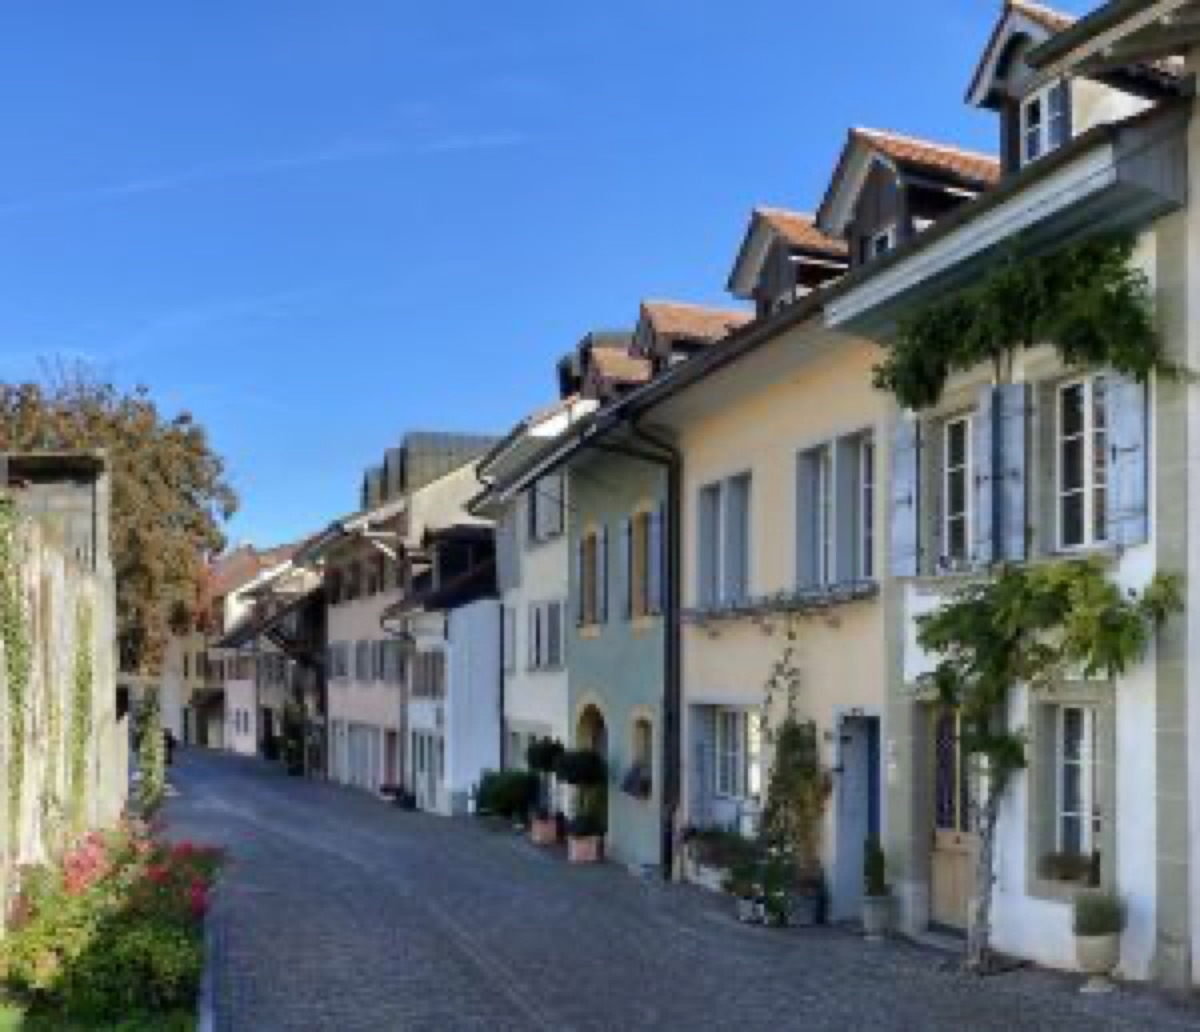
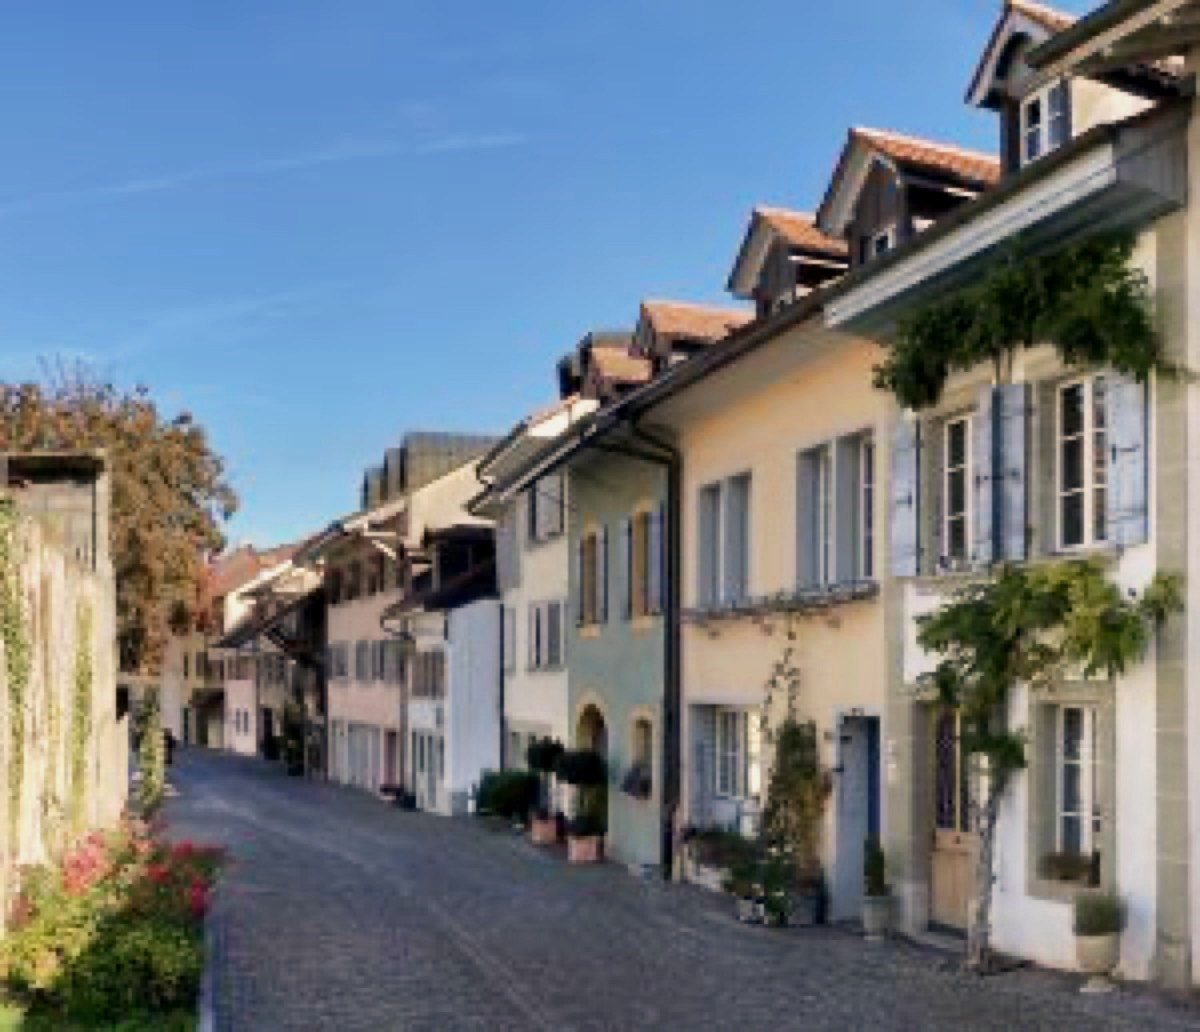
Passe design: photos stations harmonisees, carte agrandie et epuree, FAQ FR/EN/DE
- Traitement uniforme des 8 photos de stations (exposition et temperature harmonisees, ciels recuperes)
- Carte du parcours: hauteur augmentee (desktop et mobile), labels de rues reduits, fond attenue pour que les marqueurs et le trace ressortent
- Nouvelle section FAQ en accordeon (FR/EN/DE), reponses provisoires marquees "A valider par Bjorn"

diff --git a/index.html b/index.html
@@ -418,6 +418,58 @@
       </div>
     </section>
 
+    <!-- ── FAQ ─────────────────────────────────────────────────── -->
+    <section id="faq">
+      <div class="section-inner">
+        <div class="stele reveal">
+          <div class="stele-rule"><span class="stele-diamond">◆</span></div>
+          <h2 data-i18n="faq-h2">Questions fréquentes</h2>
+          <div class="stele-rule"><span class="stele-diamond">◆</span></div>
+          <p class="stele-sub" data-i18n="faq-sub">Tout ce qu'il faut savoir avant de partir</p>
+        </div>
+
+        <div class="faq-list reveal">
+
+          <details class="faq-item">
+            <summary><span class="faq-q" data-i18n="faq-q1">Que se passe-t-il s'il pleut ?</span></summary>
+            <!-- À valider par Bjorn -->
+            <div class="faq-a"><p data-i18n="faq-a1">Le jeu se pratique en extérieur. Sous une pluie légère il reste jouable, prévoyez une tenue adaptée. En cas d'orage, mieux vaut reporter : votre code est valable 6 mois, vous pouvez revenir un autre jour.</p></div>
+          </details>
+
+          <details class="faq-item">
+            <summary><span class="faq-q" data-i18n="faq-q2">Le parcours est-il accessible en poussette ou en fauteuil roulant ?</span></summary>
+            <!-- À valider par Bjorn -->
+            <div class="faq-a"><p data-i18n-html="faq-a2">Le parcours traverse la vieille ville et le site romain d'Avenches, en partie sur des chemins pavés ou en herbe. La plus grande partie se fait en poussette. Pour un fauteuil roulant, certains passages peuvent être délicats : écrivez-nous à <a href="mailto:info@aventicumquest.ch">info@aventicumquest.ch</a> et nous vous renseignons.</p></div>
+          </details>
+
+          <details class="faq-item">
+            <summary><span class="faq-q" data-i18n="faq-q3">Faut-il bien comprendre le français pour jouer ?</span></summary>
+            <!-- À valider par Bjorn -->
+            <div class="faq-a"><p data-i18n="faq-a3">Non. Le jeu est entièrement disponible en français, en anglais et en allemand. Vous choisissez votre langue au lancement de la partie.</p></div>
+          </details>
+
+          <details class="faq-item">
+            <summary><span class="faq-q" data-i18n="faq-q4">Que se passe-t-il si on n'a pas fini en 120 minutes ?</span></summary>
+            <!-- À valider par Bjorn -->
+            <div class="faq-a"><p data-i18n="faq-a4">Les 120 minutes sont une estimation, pas un compte à rebours qui vous arrête. Vous avancez à votre rythme et terminez l'enquête quand vous le souhaitez.</p></div>
+          </details>
+
+          <details class="faq-item">
+            <summary><span class="faq-q" data-i18n="faq-q5">Peut-on jouer à plusieurs équipes en même temps ?</span></summary>
+            <!-- À valider par Bjorn -->
+            <div class="faq-a"><p data-i18n="faq-a5">Oui. Chaque équipe achète son propre code et joue de son côté. C'est idéal pour une sortie de groupe ou une petite compétition amicale entre équipes.</p></div>
+          </details>
+
+          <details class="faq-item">
+            <summary><span class="faq-q" data-i18n="faq-q6">Le code d'accès a-t-il une date d'expiration ?</span></summary>
+            <!-- À valider par Bjorn -->
+            <div class="faq-a"><p data-i18n="faq-a6">Votre code est valable 6 mois à partir de l'achat. Pendant cette période, vous partez quand vous voulez.</p></div>
+          </details>
+
+        </div>
+      </div>
+    </section>
+
     <!-- ── Tarifs ──────────────────────────────────────────────── -->
     <section id="tarifs">
       <div class="section-inner">
@@ -585,6 +637,20 @@
         'tarif-note':       'Un seul code par équipe, taille illimitée.<br>Valable 6 mois à partir de l\'achat.',
         'tarifs-cta':       'Acheter maintenant →',
         'tarifs-secure':    '🔒 Paiement sécurisé · Reçu par e-mail',
+        'faq-h2':           'Questions fréquentes',
+        'faq-sub':          'Tout ce qu\'il faut savoir avant de partir',
+        'faq-q1':           'Que se passe-t-il s\'il pleut ?',
+        'faq-a1':           'Le jeu se pratique en extérieur. Sous une pluie légère il reste jouable, prévoyez une tenue adaptée. En cas d\'orage, mieux vaut reporter : votre code est valable 6 mois, vous pouvez revenir un autre jour.',
+        'faq-q2':           'Le parcours est-il accessible en poussette ou en fauteuil roulant ?',
+        'faq-a2':           'Le parcours traverse la vieille ville et le site romain d\'Avenches, en partie sur des chemins pavés ou en herbe. La plus grande partie se fait en poussette. Pour un fauteuil roulant, certains passages peuvent être délicats : écrivez-nous à <a href="mailto:info@aventicumquest.ch">info@aventicumquest.ch</a> et nous vous renseignons.',
+        'faq-q3':           'Faut-il bien comprendre le français pour jouer ?',
+        'faq-a3':           'Non. Le jeu est entièrement disponible en français, en anglais et en allemand. Vous choisissez votre langue au lancement de la partie.',
+        'faq-q4':           'Que se passe-t-il si on n\'a pas fini en 120 minutes ?',
+        'faq-a4':           'Les 120 minutes sont une estimation, pas un compte à rebours qui vous arrête. Vous avancez à votre rythme et terminez l\'enquête quand vous le souhaitez.',
+        'faq-q5':           'Peut-on jouer à plusieurs équipes en même temps ?',
+        'faq-a5':           'Oui. Chaque équipe achète son propre code et joue de son côté. C\'est idéal pour une sortie de groupe ou une petite compétition amicale entre équipes.',
+        'faq-q6':           'Le code d\'accès a-t-il une date d\'expiration ?',
+        'faq-a6':           'Votre code est valable 6 mois à partir de l\'achat. Pendant cette période, vous partez quand vous voulez.',
         'foot-ml':          'Mentions légales',
         'foot-cgv':         'Conditions générales',
         'foot-conf':        'Confidentialité',
@@ -679,6 +745,20 @@
         'tarif-note':       'One code per team, unlimited size.<br>Valid 6 months from purchase.',
         'tarifs-cta':       'Buy now →',
         'tarifs-secure':    '🔒 Secure payment · Receipt by email',
+        'faq-h2':           'Frequently asked questions',
+        'faq-sub':          'Everything to know before you set off',
+        'faq-q1':           'What happens if it rains?',
+        'faq-a1':           'The game is played outdoors. In light rain it stays playable, just bring suitable clothing. In a thunderstorm it is better to postpone: your code is valid for 6 months, so you can come back another day.',
+        'faq-q2':           'Is the route accessible with a stroller or wheelchair?',
+        'faq-a2':           'The route runs through the old town and the Roman site of Avenches, partly on cobbled or grassy paths. Most of it is doable with a stroller. For a wheelchair, some sections may be tricky: write to us at <a href="mailto:info@aventicumquest.ch">info@aventicumquest.ch</a> and we will advise you.',
+        'faq-q3':           'Do you need to understand French to play?',
+        'faq-a3':           'No. The game is fully available in French, English and German. You choose your language when you start.',
+        'faq-q4':           'What happens if we do not finish within 120 minutes?',
+        'faq-a4':           'The 120 minutes are an estimate, not a countdown that stops you. You go at your own pace and finish the investigation whenever you like.',
+        'faq-q5':           'Can several teams play at the same time?',
+        'faq-a5':           'Yes. Each team buys its own code and plays separately. It is ideal for a group outing or a friendly contest between teams.',
+        'faq-q6':           'Does the access code have an expiry date?',
+        'faq-a6':           'Your code is valid for 6 months from purchase. Within that period, you set off whenever you want.',
         'foot-ml':          'Legal notice',
         'foot-cgv':         'Terms & Conditions',
         'foot-conf':        'Privacy',
@@ -773,6 +853,20 @@
         'tarif-note':       'Ein Code pro Team, unbegrenzte Größe.<br>6 Monate ab Kauf gültig.',
         'tarifs-cta':       'Jetzt kaufen →',
         'tarifs-secure':    '🔒 Sichere Zahlung · Quittung per E-Mail',
+        'faq-h2':           'Häufige Fragen',
+        'faq-sub':          'Alles Wichtige, bevor ihr aufbrecht',
+        'faq-q1':           'Was passiert, wenn es regnet?',
+        'faq-a1':           'Das Spiel wird im Freien gespielt. Bei leichtem Regen bleibt es spielbar, nehmt einfach passende Kleidung mit. Bei Gewitter verschiebt ihr es besser: Euer Code ist 6 Monate gültig, ihr könnt an einem anderen Tag wiederkommen.',
+        'faq-q2':           'Ist die Strecke mit Kinderwagen oder Rollstuhl zugänglich?',
+        'faq-a2':           'Die Strecke führt durch die Altstadt und über das römische Gelände von Avenches, teils auf gepflasterten oder grasbewachsenen Wegen. Der grösste Teil ist mit Kinderwagen machbar. Für den Rollstuhl können einige Abschnitte heikel sein: Schreibt uns an <a href="mailto:info@aventicumquest.ch">info@aventicumquest.ch</a>, wir beraten euch.',
+        'faq-q3':           'Muss man gut Französisch verstehen, um zu spielen?',
+        'faq-a3':           'Nein. Das Spiel ist vollständig auf Französisch, Englisch und Deutsch verfügbar. Ihr wählt eure Sprache zu Beginn.',
+        'faq-q4':           'Was passiert, wenn wir in 120 Minuten nicht fertig werden?',
+        'faq-a4':           'Die 120 Minuten sind eine Schätzung, kein Countdown, der euch stoppt. Ihr geht in eurem Tempo und beendet die Ermittlung, wann ihr möchtet.',
+        'faq-q5':           'Können mehrere Teams gleichzeitig spielen?',
+        'faq-a5':           'Ja. Jedes Team kauft seinen eigenen Code und spielt für sich. Ideal für einen Gruppenausflug oder einen kleinen freundschaftlichen Wettkampf zwischen Teams.',
+        'faq-q6':           'Hat der Zugangscode ein Ablaufdatum?',
+        'faq-a6':           'Euer Code ist 6 Monate ab Kauf gültig. In diesem Zeitraum brecht ihr auf, wann ihr wollt.',
         'foot-ml':          'Impressum',
         'foot-cgv':         'AGB',
         'foot-conf':        'Datenschutz',
@@ -927,12 +1021,10 @@
       }
 
       const map = L.map(el, { scrollWheelZoom: false, maxZoom: 16 });
-      // Esri dark-gray basemap (free, no API key) + label overlay
+      // Esri dark-gray basemap (free, no API key). No street-label layer:
+      // the numbered markers and the route stay the most legible elements.
       L.tileLayer('https://server.arcgisonline.com/ArcGIS/rest/services/Canvas/World_Dark_Gray_Base/MapServer/tile/{z}/{y}/{x}', {
         attribution: 'Tiles &copy; <a href="https://www.esri.com/">Esri</a>',
-        maxZoom: 16
-      }).addTo(map);
-      L.tileLayer('https://server.arcgisonline.com/ArcGIS/rest/services/Canvas/World_Dark_Gray_Reference/MapServer/tile/{z}/{y}/{x}', {
         maxZoom: 16
       }).addTo(map);
 

diff --git a/style.css b/style.css
@@ -747,8 +747,12 @@ section { position: relative; }
   box-shadow: 0 24px 60px rgba(0,0,0,.55);
 }
 #stations-map {
-  height: clamp(360px, 55vh, 520px);
+  height: clamp(460px, 66vh, 640px);
   background: #0a0a0b;
+}
+/* Mute the base map so the gold markers and the route dominate */
+#stations-map .leaflet-tile-pane {
+  filter: brightness(0.66) contrast(1.02) saturate(0.82);
 }
 /* Numbered gold marker */
 .aq-marker {
@@ -1082,6 +1086,62 @@ section { position: relative; }
 }
 .pt-input-caret { letter-spacing: .3em; }
 
+/* ── FAQ ─────────────────────────────────────────────────────── */
+#faq { background: var(--obsidian); }
+.faq-list {
+  max-width: 780px;
+  margin: 3rem auto 0;
+}
+.faq-item { border-top: 1px solid var(--border); }
+.faq-item:last-child { border-bottom: 1px solid var(--border); }
+.faq-item summary {
+  list-style: none;
+  cursor: pointer;
+  display: flex;
+  align-items: center;
+  justify-content: space-between;
+  gap: 1.2rem;
+  padding: 1.25rem .25rem;
+  font-family: 'Cinzel', serif;
+  font-size: clamp(.82rem, 1.9vw, 1rem);
+  font-weight: 600;
+  letter-spacing: .03em;
+  color: var(--scriptum);
+  transition: color .2s;
+}
+.faq-item summary::-webkit-details-marker { display: none; }
+.faq-item summary:hover { color: var(--aurum); }
+.faq-item[open] summary { color: var(--aurum); }
+.faq-item summary::after {
+  content: '+';
+  font-family: 'Space Mono', monospace;
+  font-size: 1.15rem;
+  line-height: 1;
+  color: var(--aurum);
+  flex-shrink: 0;
+}
+.faq-item[open] summary::after { content: '\2212'; }
+.faq-a {
+  padding: 0 .25rem 1.5rem;
+  animation: faqReveal .28s ease both;
+}
+.faq-a p {
+  font-family: 'EB Garamond', serif;
+  font-size: 1.02rem;
+  line-height: 1.7;
+  color: var(--scriptum-dim);
+  max-width: 660px;
+}
+.faq-a a {
+  color: var(--aurum);
+  text-decoration: underline;
+  text-underline-offset: 2px;
+}
+@keyframes faqReveal {
+  from { opacity: 0; transform: translateY(-4px); }
+  to   { opacity: 1; transform: none; }
+}
+
 /* ── Tarifs ──────────────────────────────────────────────────── */
 #tarifs { background: var(--obsidian); }
 .tarifs-inner {
@@ -1304,6 +1364,7 @@ footer {
   .phone:nth-child(2) { transform: none; opacity: 1; }
   #cookie-banner { flex-direction: column; gap: .75rem; }
   .tarif-table td { padding: .7rem .6rem; }
+  #stations-map { height: 78vh; min-height: 460px; }
 }
 
 @media (max-width: 420px) {
